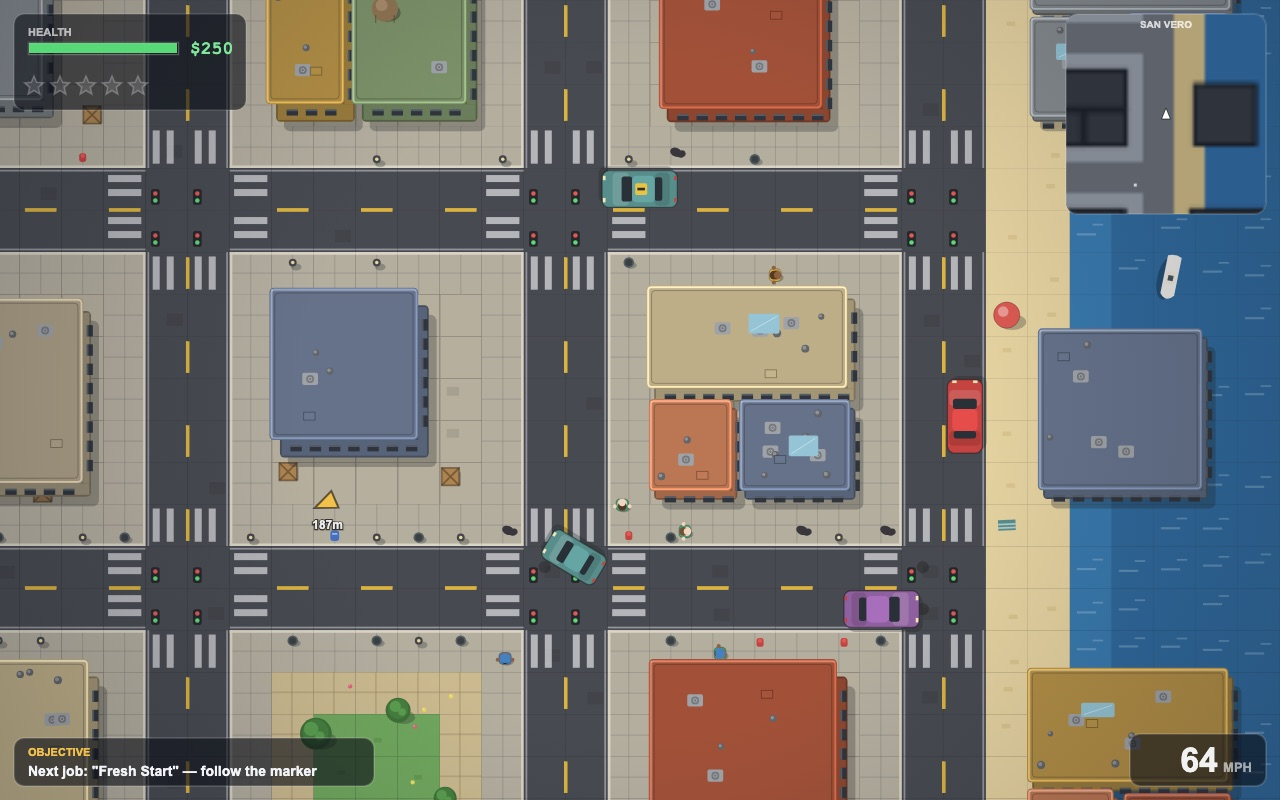
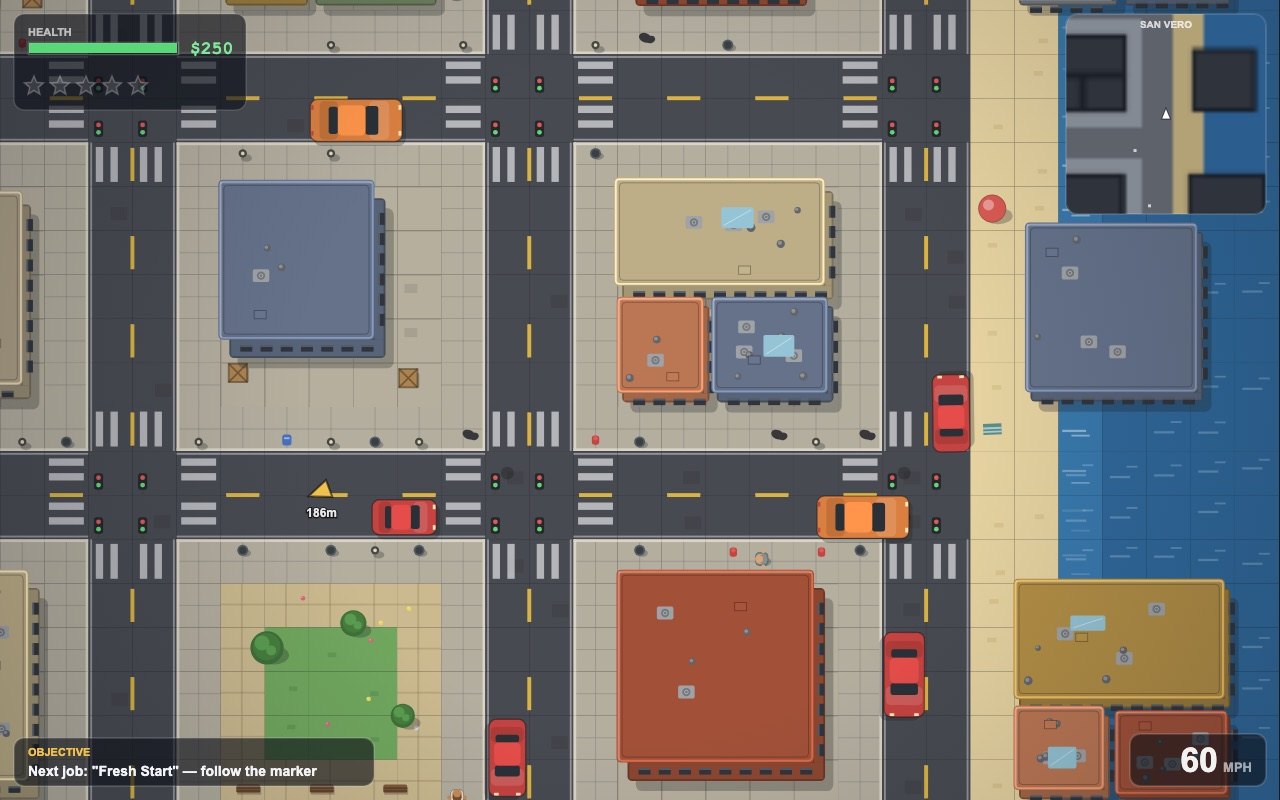
Refinement: pigeons, shore foam, signal poles, cop stuck recovery, traffic spawn guard, smoke caps

diff --git a/game/src/render.js b/game/src/render.js
@@ -17,6 +17,12 @@ function rr(ctx, x, y, w, h, r) {
 }
 
 function drawSignalBox(ctx, x, y, nsGreen) {
+  ctx.strokeStyle = '#3a3f46';
+  ctx.lineWidth = 2;
+  ctx.beginPath();
+  ctx.moveTo(x + 5, y + 18);
+  ctx.lineTo(x + 5, y + 27);
+  ctx.stroke();
   ctx.fillStyle = 'rgba(20,23,30,0.85)';
   rr(ctx, x, y, 10, 18, 3);
   ctx.fill();
@@ -52,6 +58,7 @@ export function draw(ctx, world, ui, mm) {
   for (const ped of world.peds) {
     if (!ped.dead) drawPed(ctx, world, ped, false);
   }
+  for (const b of world.pigeons || []) drawPigeon(ctx, world, b);
   if (!world.player.inCar) drawPed(ctx, world, world.player, true);
   drawBuildings(ctx, world, vx0, vy0, vx1, vy1);
   drawCanopy(ctx, world, vx0, vy0, vx1, vy1);
@@ -224,6 +231,15 @@ function drawGround(ctx, world, vx0, vy0, vx1, vy1) {
           ctx.fillStyle = 'rgba(210,235,250,0.28)';
           ctx.fillRect(x + 8, y + 22 + ph * 5, 22, 2.5);
           ctx.fillRect(x + 26, y + 12 + ph * 4, 12, 2);
+        }
+        const codes2 = codes;
+        const shore = (tx > 0 && codes2[ty * WTILES + tx - 1] === 5) || (ty > 0 && codes2[(ty - 1) * WTILES + tx] === 5)
+          || (tx < WTILES - 1 && codes2[ty * WTILES + tx + 1] === 5) || (ty < WTILES - 1 && codes2[(ty + 1) * WTILES + tx] === 5);
+        if (shore) {
+          const fo = Math.sin(t * 2.1 + tx * 0.8 + ty * 1.2);
+          ctx.fillStyle = `rgba(235,246,252,${0.3 + fo * 0.18})`;
+          ctx.fillRect(x + 4, y + 20 + fo * 5, 26, 2.5);
+          ctx.fillRect(x + 14, y + 34 - fo * 4, 20, 2);
         }
       } else if (code === 7) {
         ctx.fillStyle = COLORS.bridge;
@@ -505,6 +521,50 @@ function drawCorpses(ctx, world) {
     ctx.restore();
   }
   ctx.globalAlpha = 1;
+}
+
+function drawPigeon(ctx, world, b) {
+  const lift = b.fly > 0 ? Math.min(18, (1.2 - b.fly) * 18) : 0;
+  const flap = b.fly > 0 ? Math.sin(world.time * 42) * 4 : 0;
+  ctx.save();
+  ctx.translate(b.x, b.y - lift);
+  ctx.fillStyle = 'rgba(18,24,34,0.22)';
+  ctx.beginPath();
+  ctx.ellipse(2, 2 + lift * 0.5, 5, 3, 0, 0, Math.PI * 2);
+  ctx.fill();
+  ctx.rotate(b.wander);
+  ctx.fillStyle = '#7d8794';
+  ctx.beginPath();
+  ctx.ellipse(0, 0, 5, 3.2, 0, 0, Math.PI * 2);
+  ctx.fill();
+  ctx.fillStyle = '#9aa4b0';
+  ctx.beginPath();
+  ctx.arc(4.6, 0, 2.2, 0, Math.PI * 2);
+  ctx.fill();
+  if (b.fly > 0) {
+    ctx.strokeStyle = '#6d7684';
+    ctx.lineWidth = 2;
+    ctx.beginPath();
+    ctx.moveTo(-1, -2);
+    ctx.lineTo(-4, -2 - flap);
+    ctx.moveTo(-1, 2);
+    ctx.lineTo(-4, 2 + flap);
+    ctx.stroke();
+  } else {
+    ctx.fillStyle = '#5f8f6a';
+    ctx.beginPath();
+    ctx.arc(3, 0, 1.2, 0, Math.PI * 2);
+    ctx.fill();
+    ctx.strokeStyle = '#c98a4b';
+    ctx.lineWidth = 1;
+    ctx.beginPath();
+    ctx.moveTo(-1, -1.4);
+    ctx.lineTo(-3, -1.4);
+    ctx.moveTo(-1, 1.4);
+    ctx.lineTo(-3, 1.4);
+    ctx.stroke();
+  }
+  ctx.restore();
 }
 
 function drawCar(ctx, world, car) {

diff --git a/game/src/peds.js b/game/src/peds.js
@@ -98,6 +98,47 @@ function randomSidewalkSpot(world, cx, cy, minD, maxD) {
   return null;
 }
 
+export function spawnPigeons(world, dt) {
+  world.pigeonT = (world.pigeonT || 0) - dt;
+  world.pigeons = world.pigeons || [];
+  const focus = worldFocus(world);
+  let alive = 0;
+  for (const b of world.pigeons) if (!b.gone) alive += 1;
+  if (world.pigeonT <= 0 && alive < 10) {
+    world.pigeonT = 0.6;
+    const spot = randomSidewalkSpot(world, focus.x, focus.y, 100, 520);
+    if (spot) world.pigeons.push({ x: spot.x, y: spot.y, wander: world.rng.next() * Math.PI * 2, hopT: 0, fly: 0, gone: false });
+  }
+}
+
+export function updatePigeons(world, dt) {
+  const focus = worldFocus(world);
+  const list = world.pigeons || [];
+  for (let i = list.length - 1; i >= 0; i -= 1) {
+    const b = list[i];
+    if (b.gone) { list.splice(i, 1); continue; }
+    if (b.fly > 0) {
+      b.fly -= dt;
+      b.x += Math.cos(b.wander) * 300 * dt;
+      b.y += Math.sin(b.wander) * 300 * dt;
+      if (b.fly <= 0) b.gone = true;
+      continue;
+    }
+    if (Math.hypot(b.x - focus.x, b.y - focus.y) < 74) {
+      b.fly = 1.1;
+      b.wander = Math.atan2(b.y - focus.y, b.x - focus.x);
+      continue;
+    }
+    if (world.rng.chance(0.02)) b.wander += (world.rng.next() - 0.5) * 1.6;
+    b.hopT = Math.max(0, (b.hopT || 0) - dt);
+    if (b.hopT <= 0 && world.rng.chance(0.04)) b.hopT = 0.35;
+    if (b.hopT > 0) {
+      b.x += Math.cos(b.wander) * 42 * dt;
+      b.y += Math.sin(b.wander) * 42 * dt;
+    }
+  }
+}
+
 export function spawnGang(world, x, y, n, tag) {
   for (let i = 0; i < n; i += 1) {
     const a = (i / n) * Math.PI * 2 + world.rng.next();

diff --git a/game/src/world.js b/game/src/world.js
@@ -4,7 +4,7 @@ import { createRandom, clamp } from './random.js';
 import { createFx, updateFx, float } from './fx.js';
 import { createAudio } from './audio.js';
 import { spawnParkedCars, spawnTraffic, updateCars, worldFocus } from './cars.js';
-import { spawnPeds, updatePeds } from './peds.js';
+import { spawnPeds, updatePeds, spawnPigeons, updatePigeons } from './peds.js';
 import { updateCops, clearCops, resetWanted } from './police.js';
 import { updatePlayer, exitCar } from './player.js';
 import { updateBullets } from './combat.js';
@@ -103,6 +103,8 @@ export function step(world, input, dt) {
   updateConvoy(world, dt);
   spawnPeds(world, dt);
   updatePeds(world, dt);
+  spawnPigeons(world, dt);
+  updatePigeons(world, dt);
   updateBullets(world, dt);
   updateMissions(world, dt);
   if (world.muzzle) {

diff --git a/game/src/police.js b/game/src/police.js
@@ -99,6 +99,17 @@ function updateCopCar(world, car, dt) {
   if (playerOnFoot && d < 230) throttle = 0;
   else if (d < 320) throttle = 0.75;
   if (Math.abs(diff) > 1.1) throttle = Math.min(throttle, 0.4);
+  if (throttle > 0.5 && car.speed < 30) car.stuckT = (car.stuckT || 0) + dt;
+  else car.stuckT = 0;
+  if ((car.stuckT || 0) > 1.2) {
+    car.reverseT = 0.8;
+    car.stuckT = 0;
+  }
+  if ((car.reverseT || 0) > 0) {
+    car.reverseT -= dt;
+    driveKinematics(world, car, dt, -0.9, -clamp(diff * 2, -1, 1), false);
+    return;
+  }
   const steer = clamp(diff * 2.4, -1, 1);
   driveKinematics(world, car, dt, throttle, steer, false);
   car.speed = Math.hypot(car.vx, car.vy);

diff --git a/game/src/main.js b/game/src/main.js
@@ -201,6 +201,7 @@ function render() {
 }
 
 if (shotName) {
+  setTimeout(() => { document.title = 'sv-probe:' + (window.__shotReady ? 'ready' : 'stuck') + ':' + (window.__err || 'noerr') + ':p' + (window.__paints || 0); }, 2500);
   try {
     const tOverride = Number.isFinite(tParam) && tParam > 0 ? tParam : undefined;
     ui.state = stageShot(shotName, world, tOverride);
@@ -210,6 +211,7 @@ if (shotName) {
   }
   let painted = 0;
   function paintShot() {
+    window.__paints = painted;
     render();
     painted += 1;
     if (painted < 3) requestAnimationFrame(paintShot);

diff --git a/game/src/combat.js b/game/src/combat.js
@@ -35,6 +35,12 @@ export function panicArea(world, x, y, radius) {
   for (const car of world.cars) {
     if (car.control === 'ai' && !car.dead && Math.hypot(car.x - x, car.y - y) < radius * 1.4) car.panicT = 6;
   }
+  for (const b of world.pigeons || []) {
+    if (!b.gone && Math.hypot(b.x - x, b.y - y) < radius) {
+      b.fly = 1.2;
+      b.wander = Math.atan2(b.y - y, b.x - x);
+    }
+  }
 }
 
 function witnessShot(world, x, y) {
